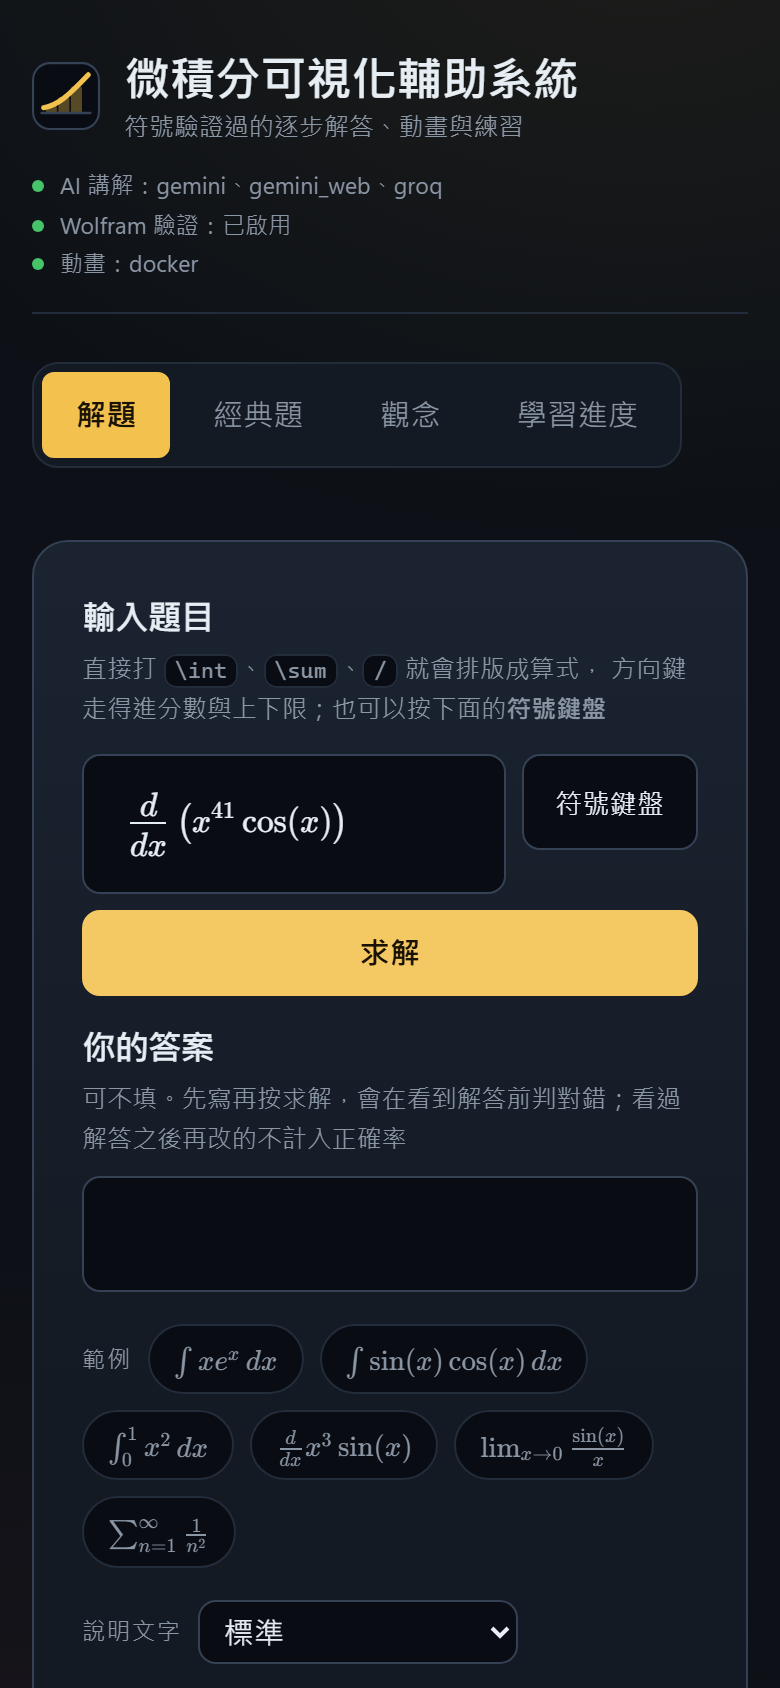
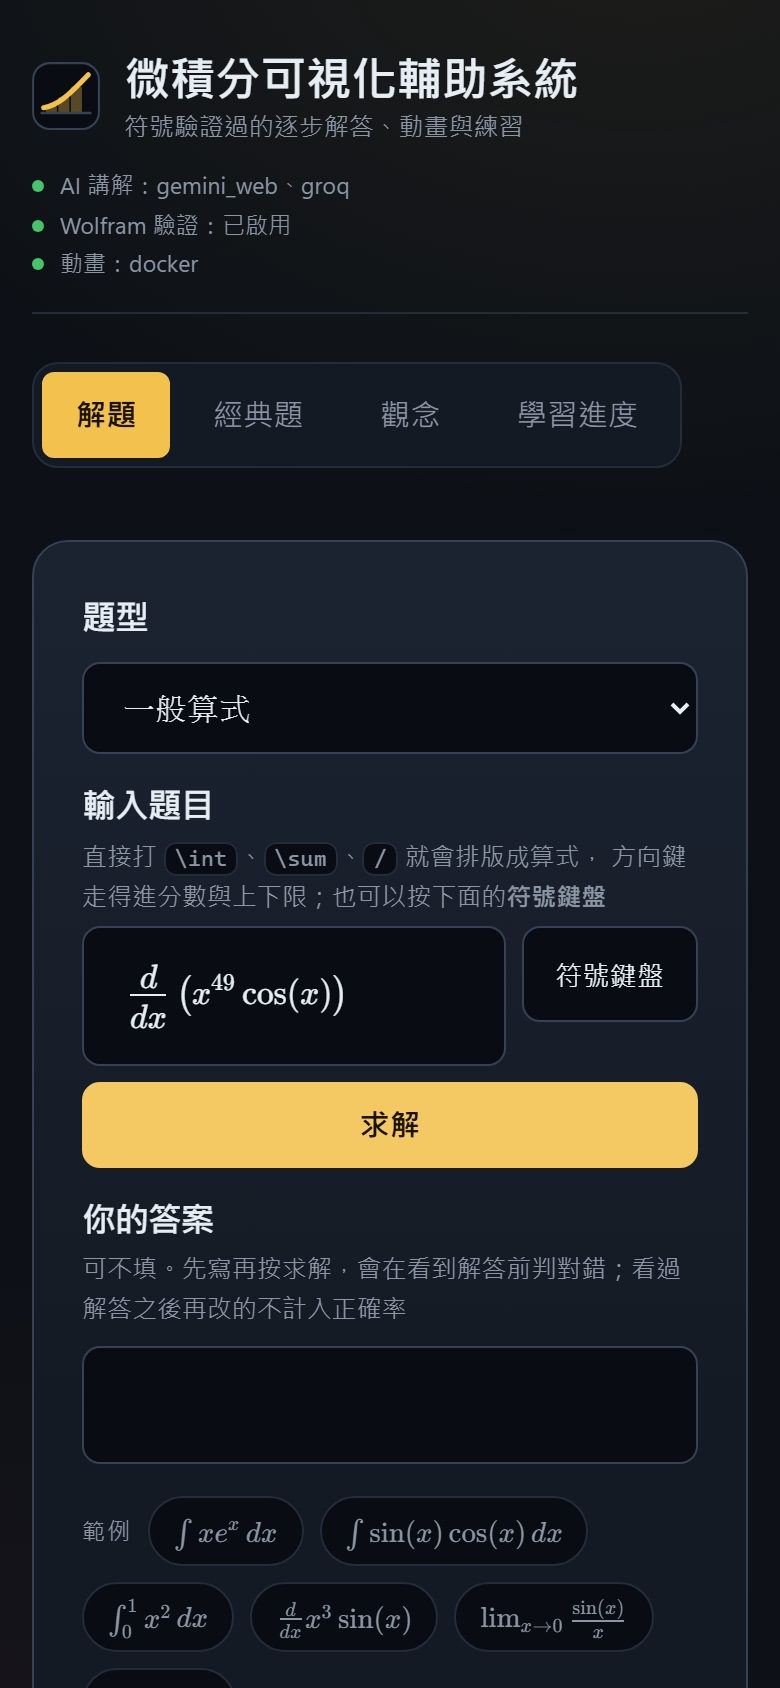
docs: retake screenshots with the problem-type menu, add one of it
Every screenshot now shows the Problem Type dropdown above the input box, and
a fifth shows a solid of revolution filled in by field with the integral
previewed before solving. The status line lists gemini_web and groq.

diff --git a/README.md b/README.md
@@ -8,7 +8,7 @@
 
 ## What It Does
 
-Enter any calculus problem (typed directly with `\int`, `\sum`, or using the on-screen math keyboard), and the system will:
+Enter any calculus problem (typed directly with `\int`, `\sum`, or using the on-screen math keyboard; kinds such as solids of revolution or Taylor expansions are picked from the Problem Type menu and filled in by field), and the system will:
 
 1. **Solve**: Provide step-by-step mathematical derivations, clearly labeling which technique is used at each step (e.g., Integration by Parts).
 2. **Verify**: Verify the answer symbolically with SymPy, with optional cross-checking via Wolfram|Alpha. The AI is responsible solely for natural language explanation and **does not determine mathematical correctness**. If the model fails to respond, the system gracefully falls back to built-in templates without affecting mathematical validity.
@@ -26,6 +26,10 @@ Covers limits, derivatives, integrals, parametric & polar coordinates, series, a
 | Geometric Series (Concept Animation & Answer) | Mobile View (First Screen After Solving) |
 |---|---|
 | ![Geometric Series](images/en/03-series.png) | ![Mobile View](images/en/04-mobile.png) |
+
+| Problem Type Menu (Solid of Revolution by Field, Integral Previewed Before Solving) |
+|---|
+| ![Problem Type Menu](images/en/05-kind-picker.png) |
 
 Screenshots were captured from the local running instance.
 

diff --git a/README_zh.md b/README_zh.md
@@ -10,7 +10,7 @@
 
 ## 它做什麼
 
-輸入一題微積分（直接打 `\int`、`\sum`，或用符號鍵盤），系統會：
+輸入一題微積分（直接打 `\int`、`\sum`，或用符號鍵盤；旋轉體、泰勒展開這類題型從「題型」選單選，填欄位即可），系統會：
 
 1. **解題**：以逐步推導的方式給出答案，每一步標明用了哪個技巧（例如分部積分法）。
 2. **驗證**：答案由 SymPy 做符號驗證，並可選用 Wolfram|Alpha 交叉比對。AI 只負責講解，**不決定答案對不對**；模型沒回應時，會退回內建說明，數學結果不受影響。
@@ -28,6 +28,10 @@
 | 等比級數：概念動畫與答案 | 手機版（解題後的第一屏） |
 |---|---|
 | ![級數](images/03-series.png) | ![手機版](images/04-mobile.png) |
+
+| 題型選單：選旋轉體、填欄位，送出前先看到要算的積分 |
+|---|
+| ![題型選單](images/05-kind-picker.png) |
 
 截圖取自本機執行的版本。
 
